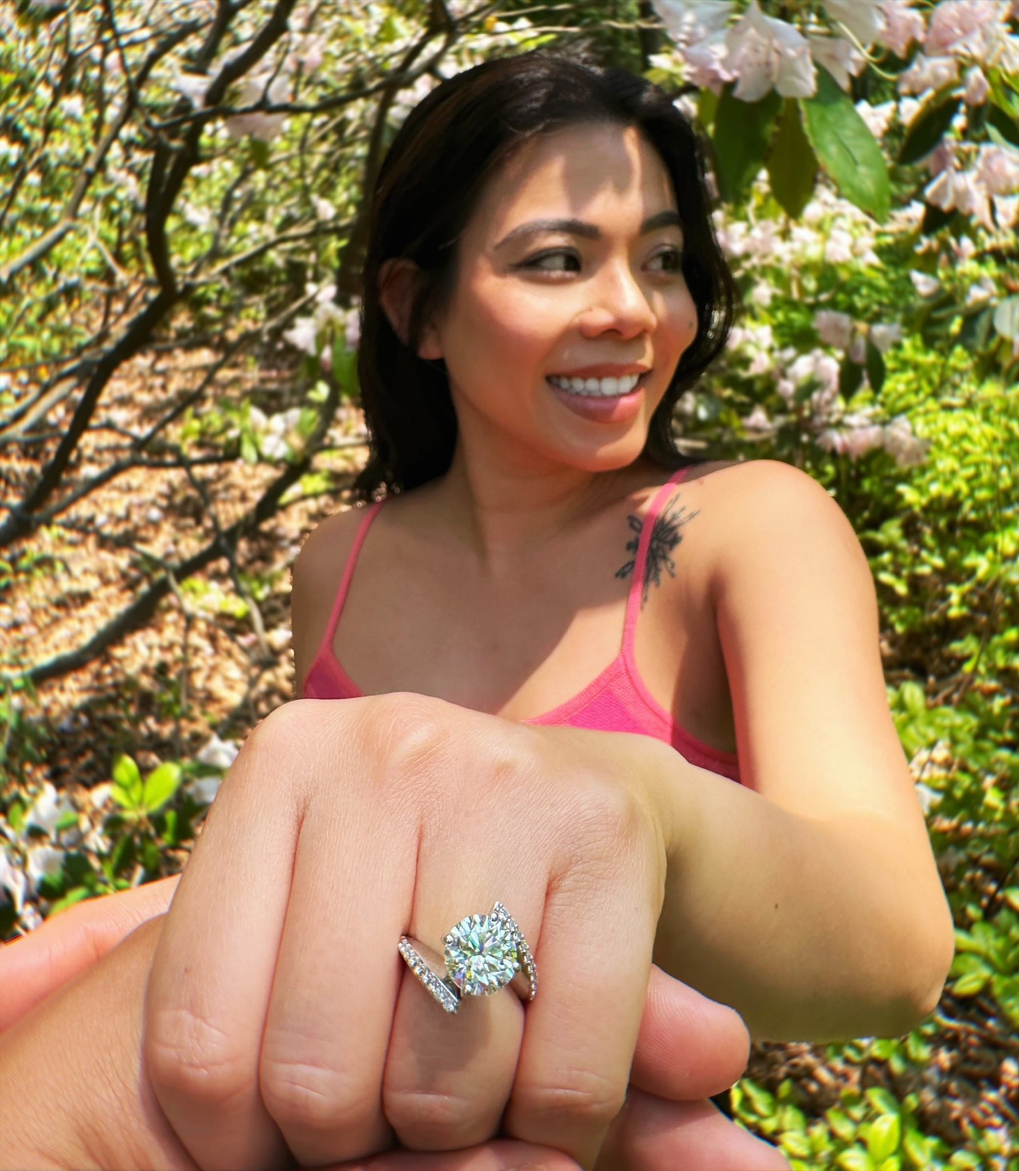
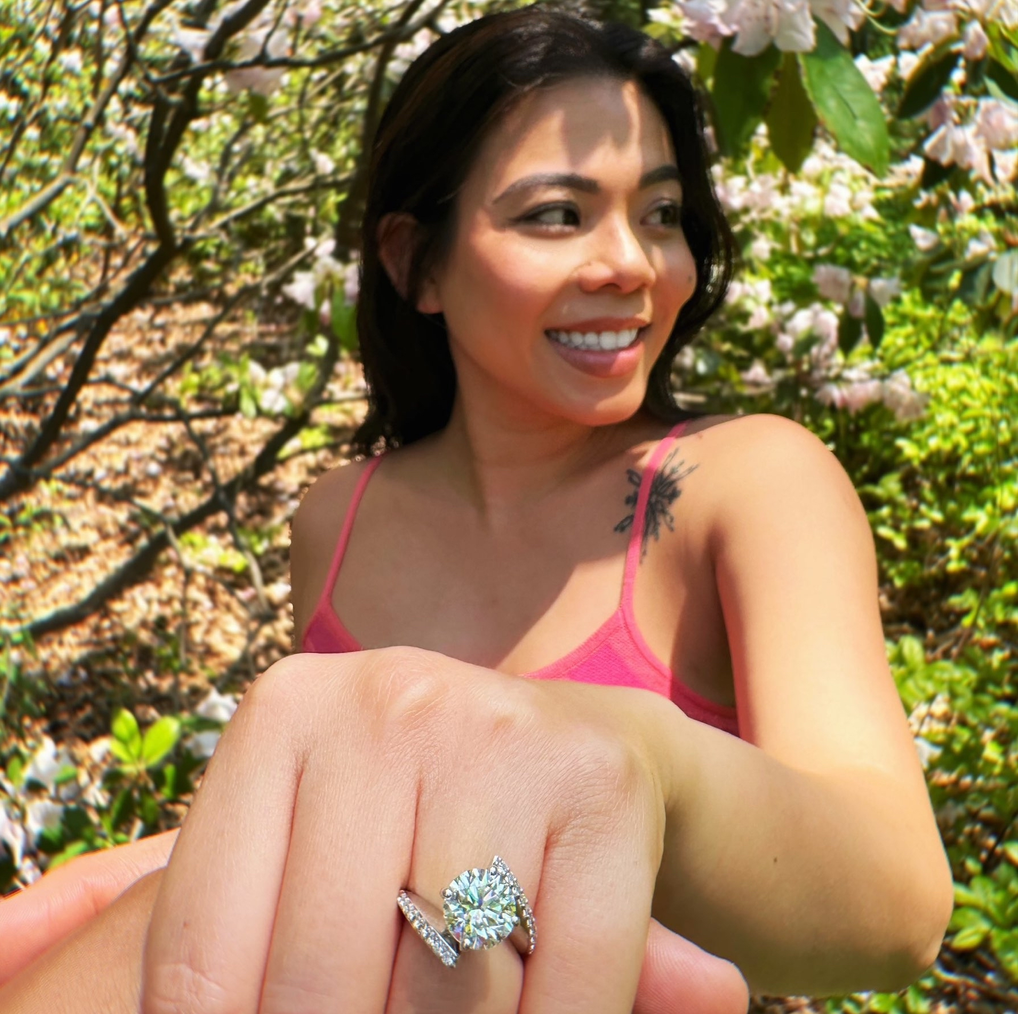
Update image

diff --git a/farzadandchau/index.html b/farzadandchau/index.html
@@ -130,7 +130,7 @@
 			<div class="row couple-wrap en">
 				<div class="groom-wrap col-md-6 clearfix">
 					<div class="groom">
-						<img src="img/chure.png" alt="groom" class="img-responsive">
+						<img src="img/chure.jpeg" alt="groom" class="img-responsive">
 					</div>
 					<div class="desc-groom">
 						<h3>Farzad Marzban</h3>
@@ -141,7 +141,7 @@
 				<p class="heart text-center"><i class="icon-heart2"></i></p>
 				<div class="bride-wrap col-md-6">
 					<div class="bride">
-						<img src="img/codau.png" alt="groom" class="img-responsive">
+						<img src="img/codau.jpeg" alt="groom" class="img-responsive">
 					</div>
 					<div class="desc-bride">
 						<h3>Chau Ly</h3>
@@ -150,10 +150,10 @@
 					</div>
 				</div>
 			</div>
-			<div class="row couple-wrap vi">
+			<div class="row couple-wrap vi">ƒ
 				<div class="groom-wrap col-md-6 clearfix">
 					<div class="groom">
-						<img src="img/chure.png" alt="groom" class="img-responsive">
+						<img src="img/chure.jpeg" alt="groom" class="img-responsive">
 					</div>
 					<div class="desc-groom">
 						<h3>Farzad</h3>
@@ -164,7 +164,7 @@
 				<p class="heart text-center"><i class="icon-heart2"></i></p>
 				<div class="bride-wrap col-md-6">
 					<div class="bride">
-						<img src="img/codau.png" alt="groom" class="img-responsive">
+						<img src="img/codau.jpeg" alt="groom" class="img-responsive">
 					</div>
 					<div class="desc-bride">
 						<h3>Minh Châu</h3>
@@ -187,7 +187,7 @@
 						Thank you so much for visiting our wedding website!</p>
 				</div>
 				<div class="heading col-sm-12 vi">
-					<h2>Ngày trọng đại<br>
+					<h2>Ngày thành hôn<br>
 						16 . Tháng 3 . 2024
 					</h2>
 					<p>Chúng mình rất háo hức để chia vui ngày đặc biệt này cùng gia đình và bạn bè của chúng mình. <br>
@@ -198,7 +198,7 @@
 						<div class="timer-item timer-item_text en">
 							Just some hours...
 						</div>
-						<div class="timer-item timer-item_text vi">
+						<div class="timer-item timer-item_text vi font-vi">
 							Chúng ta cùng chờ đợi...
 						</div>
 						<div class="timer-item_digits">
@@ -234,7 +234,7 @@
 						<div class="timer-item timer-item_text en">
 							...until we get married!
 						</div>
-						<div class="timer-item timer-item_text vi">
+						<div class="timer-item timer-item_text vi font-vi">
 							...đến khi chúng mình cưới nhau!
 						</div>
 					</div>
@@ -322,7 +322,7 @@
 				<div class="col-md-12 text-center heading">
 					<span>We Love Each Other</span>
 					<h2 class="en">Our story</h2>
-					<h2 class="vi">Câu chuyện của chúng mình</h2>
+					<h2 class="vi font-vi">Câu chuyện của chúng mình</h2>
 
 				</div>
 			</div>
@@ -354,7 +354,7 @@
 						</li>
 						<li class="timeline-item animate-box">
 							<div class="timeline-badge">
-								<img src="img/chure.png" alt="">
+								<img src="img/inlove.jpeg" alt="">
 							</div>
 							<div class="timeline-panel en">
 								<div class="timeline-heading">
@@ -377,7 +377,7 @@
 						</li>
 						<li class="timeline-item animate-box">
 							<div class="timeline-badge">
-								<img src="img/nuoicho.png" alt="">
+								<img src="img/nuoicho.jpeg" alt="">
 							</div>
 							<div class="timeline-panel vi">
 								<div class="timeline-heading">
@@ -468,13 +468,13 @@
 				</div>
 				<div class="col-md-12 text-center heading vi">
 					<span>Kỷ niệm của chúng mình</span>
-					<h2>Ảnh cưới</h2>
+					<h2 class="font-vi">Ảnh cưới</h2>
 				</div>
 			</div>
 			<div class="row">
 				<div class="col-sm-12">
 					<div class="button-group filters-button-group">
-						<button class="button is-checked" data-filter="*">All</button>
+<!--						<button class="button is-checked" data-filter="*">All</button>-->
 <!--						<button class="button" data-filter=".moments">moments</button>-->
 <!--						<button class="button" data-filter=".friends">friends</button>-->
 <!--						<button class="button" data-filter=".banguet">banguet</button>-->
@@ -526,64 +526,22 @@
 		<div class="container">
 			<div class="row">
 				<div class="col-md-12 text-center heading">
-					<h2>Video invitation</h2>
-					<p>Lorem ipsum dolor sit amet, consectetur adipisicing elit, sed do eiusmod tempor incididunt ut labore et dolore magna aliqua. Ut enim ad minim veniam</p>
+					<h2>Invitation</h2>
 				</div>
 			</div>
 			<div class="row h-flex-md">
-				<div class="form-wrapper col-md-6">
-					<form action="form.php" id="contact-form" class="form-horizontal" method="post">
-						<h3 class="invitation_heading">Will you be attending the wedding?</h3>
-						<div class="row">
-							<div class="form-field switch-field col-sm-12">
-								<input type="radio" name="rdo" id="yes" value="Yes"/>
-								<input type="radio" name="rdo" id="no" value="No"/>
-								<div class="switch">
-									<label for="yes">Yes</label>
-									<label for="no">No</label>
-									<span></span>
-								</div>
-							</div>
-						</div>
-						<div class="row">
-							<div id="name-field" class="form-field col-sm-6">
-								<label for="form-name" class="control-label">Your name*</label>
-								<input type="text" class="form-control" id="form-name" name="form-name" required="">
-							</div>
-							<div id="email-field" class="form-field col-sm-6">
-								<label for="form-email" class="control-label">Email*</label>
-								<input type="email" class="form-control" id="form-email" name="form-email" required="">
-							</div>
-						</div>
-						<h3 class="invitation_heading">Who else is comming with you?</h3>
-						<div class="row">
-							<div id="guest-name-field" class="form-field col-sm-8">
-								<label for="form-guest-name" class="control-label">Guest name</label>
-								<input type="text" class="form-control" id="form-guest-name" name="form-name">
-							</div>
-							<div class="form-field col-sm-4 text-center">
-								<button type="button" class="add-button">Add guest</button>
-							</div>
-						</div>
-						<div class="row">
-							<div class="guest-list form-field col-sm-12"></div>
-						</div>
-						<div class="row">
-							<div class="col-sm-12 text-center">
-								<button type="submit" class="btn btn-outline-black btn-lg send-button">Submit</button>
-							</div>
-						</div>
-					</form>
+				<div class="form-wrapper col-md-12 text-center" style="padding: 0;margin-left: 5px">
+					<iframe src="https://docs.google.com/forms/d/e/1FAIpQLScXDvprYpKbYTCueKTAEzl6SWgN50cgtG_YLHnrZJ6Cgxno0g/viewform?embedded=true" width="600" height="950" frameborder="0" marginheight="0" marginwidth="0">Loading…</iframe>
 				</div>
 
-				<div class="col-md-6">
-					<div class="video bg">
-						<a href="https://www.youtube.com/watch?v=KPi8uXHRfYg" class="popup-youtube">
-							<i class="fa fa-youtube-play fa-4x"></i>
-						</a>
-						<div class="overlay"></div>
-					</div>
-				</div>
+<!--				<div class="col-md-6">-->
+<!--					<div class="video bg">-->
+<!--						<a href="" class="popup-youtube">-->
+<!--							<i class="fa fa-youtube-play fa-4x"></i>-->
+<!--						</a>-->
+<!--						<div class="overlay"></div>-->
+<!--					</div>-->
+<!--				</div>-->
 			</div>
 		</div>
 	</section>

diff --git a/farzadandchau/css/main.css b/farzadandchau/css/main.css
@@ -1,7 +1,15 @@
+@import url("https://fonts.googleapis.com/css?family=Dosis:400,600,700|Great+Vibes");
+.font-vi {
+	font-family: "Great Vibes", cursive !important;
+}
 #audio-button {
 	transition: transform 0.3s ease-in-out; /* Độ trễ và kiểu chuyển đổi */
 }
-
+@media screen and (max-width:767px) {
+	iframe[src*="google.com/forms"] {
+		width: 400px !important;
+	}
+}
 @keyframes rotate {
 	from { transform: rotate(0deg); } /* Góc quay ban đầu */
 	to { transform: rotate(360deg); } /* Góc quay kết thúc */
@@ -1807,7 +1815,8 @@ footer .copyright .block {
 }
 /* Countdown */
 .countdown.section {
-	background-image: url(../img/countdown-bg.jpg);
+	background-image: url(../img/cauhon2.jpg);
+	background-position-y: -50px;
 }
 .countdown .heading {
 	margin-bottom: 8em;
